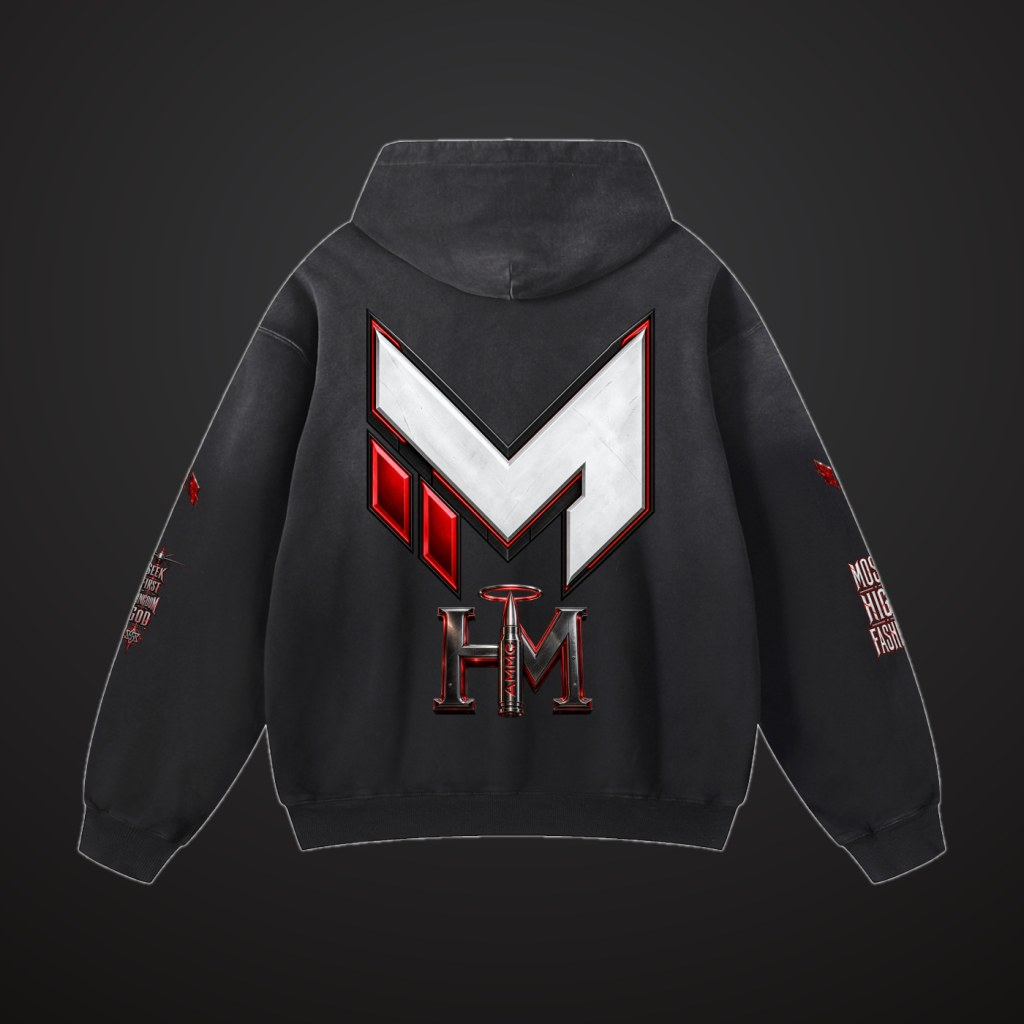
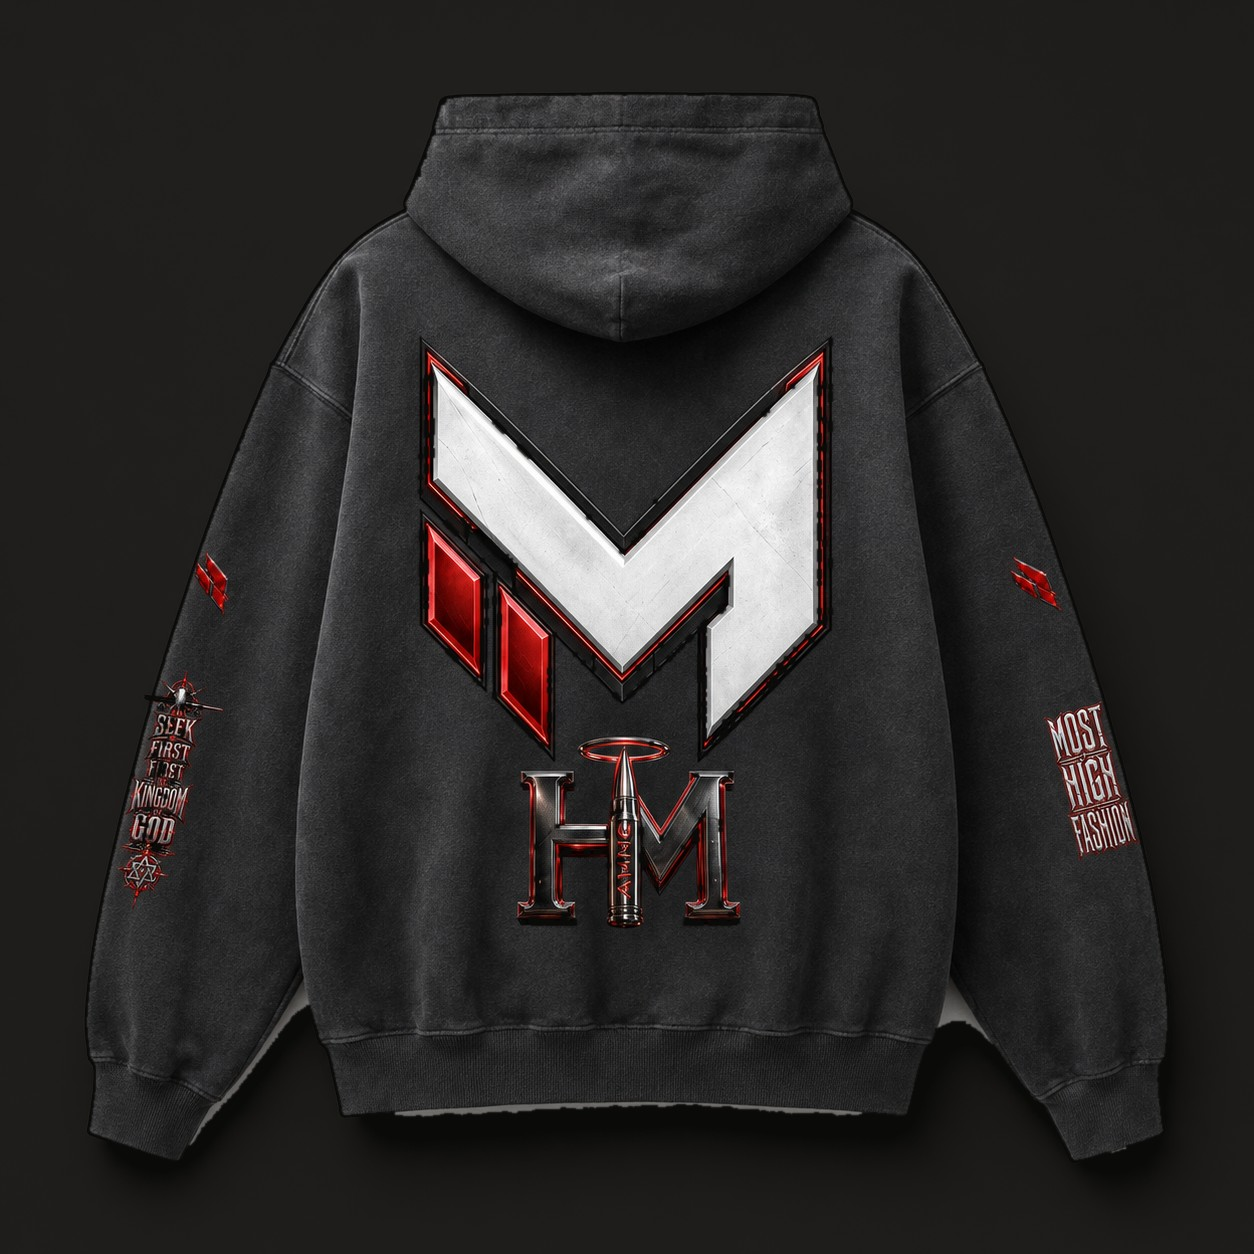
Real product photography replaces the mockups, on the house's ground.
Four views instead of two: front, back, and both sleeves, so the sleeve
prints that carry the season's other two phrases are finally shots rather
than a line in the placements array. The colorway note stops saying
"sampled off the production mockup" and names the photography.

THE SWEEP HAD TO GO DARK. The shots arrive on a light studio sweep and
the Closet is a dark room, so dropped in raw they glow like a lightbox.
Flattening the background to one colour would have deleted the contact
shadow the garment stands in, and a hoodie with no shadow reads as a
sticker — so the sweep's own luminance is remapped into a narrow dark
band and the shadow survives, dark on dark, exactly where the camera put
it.

Getting the matte right took three passes and the reason is worth
writing down: PIL's floodfill threshold is the SUM of the per-channel
differences, so on RGB a `thresh` of 110 is really a per-channel
tolerance of about 36. The flood kept stalling in the shadow's mid tones
and leaving a light rim under every hem while the number in the argument
said it should not. Flooding one channel — greyscale — makes the
threshold mean what it says. Measured values are in the comment so the
next person does not re-derive them: sweep 223, shadow floor 162, fleece
30-55. The matte is also eroded a touch before feathering, because the
anti-aliased boundary pixels are part sweep and carry its brightness onto
the dark ground as a halo.
[…]

diff --git a/js/closet.js b/js/closet.js
@@ -585,17 +585,30 @@
       (give && give.square ? '<span class="clm__sow">Or simply sow into the season &mdash; <a href="' + esc(give.square) + '" data-sow rel="noopener">give through Square &#8594;</a></span>' : "") +
       "</div></section>";
 
-    var prev = drops[(idx + drops.length - 1) % drops.length];
-    var next = drops[(idx + 1) % drops.length];
-    var nxHtml =
-      '<section class="dsc rv"><div class="dnx">' +
-      '<a href="' + esc(prev.slug) + '.html" style="' + field(prev.color) + '">' +
-        (prev.cover ? '<span class="dnxf" aria-hidden="true">' + photo(prev.cover, "") + "</span>" : "") +
-        '<i>&#8592; ' + esc(prev.tag || "Drop " + prev.no) + "</i><b>" + esc(prev.title) + "</b></a>" +
-      '<a href="' + esc(next.slug) + '.html" style="' + field(next.color) + '">' +
-        (next.cover ? '<span class="dnxf" aria-hidden="true">' + photo(next.cover, "") + "</span>" : "") +
-        '<i>' + esc(next.tag || "Drop " + next.no) + " &#8594;</i><b>" + esc(next.title) + "</b></a>" +
-      '</div><a class="dnx--home" href="' + ROOT + 'prayer-closet.html">Back into the Closet</a></section>';
+    /* THE WALK-ON, when there is somewhere to walk on to.
+
+       prev and next wrap around the drop list, which was right for a season
+       of three and absurd for a season of one: both arrows resolved to the
+       drop you are standing on, so the page offered you two doors back into
+       itself. With a single drop the pair is dropped and only the way back
+       into the Closet is drawn. */
+    var nxHtml;
+    if (drops.length > 1) {
+      var prev = drops[(idx + drops.length - 1) % drops.length];
+      var next = drops[(idx + 1) % drops.length];
+      nxHtml =
+        '<section class="dsc rv"><div class="dnx">' +
+        '<a href="' + esc(prev.slug) + '.html" style="' + field(prev.color) + '">' +
+          (prev.cover ? '<span class="dnxf" aria-hidden="true">' + photo(prev.cover, "") + "</span>" : "") +
+          '<i>&#8592; ' + esc(prev.tag || "Drop " + prev.no) + "</i><b>" + esc(prev.title) + "</b></a>" +
+        '<a href="' + esc(next.slug) + '.html" style="' + field(next.color) + '">' +
+          (next.cover ? '<span class="dnxf" aria-hidden="true">' + photo(next.cover, "") + "</span>" : "") +
+          '<i>' + esc(next.tag || "Drop " + next.no) + " &#8594;</i><b>" + esc(next.title) + "</b></a>" +
+        '</div><a class="dnx--home" href="' + ROOT + 'prayer-closet.html">Back into the Closet</a></section>';
+    } else {
+      nxHtml = '<section class="dsc rv"><a class="dnx--home" href="' + ROOT +
+        'prayer-closet.html">Back into the Closet</a></section>';
+    }
 
     var wordShell =
       '<section class="dsc rv" id="chapter"><div class="word">' +
